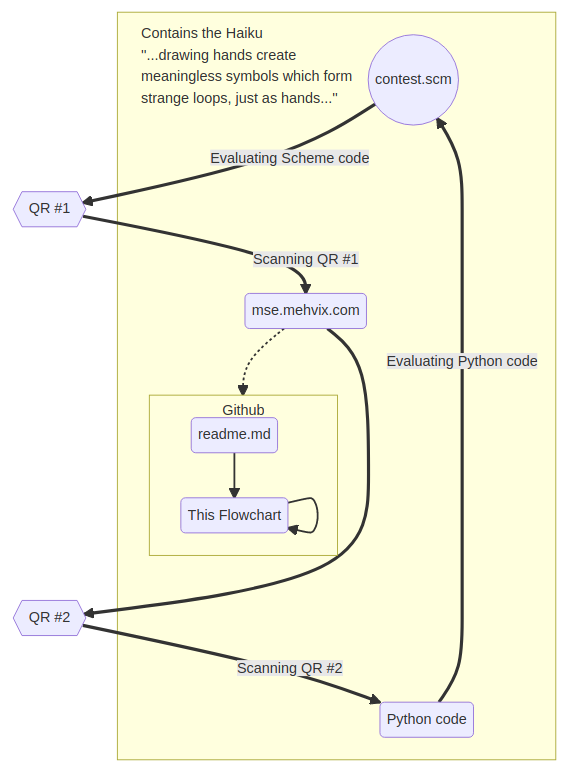
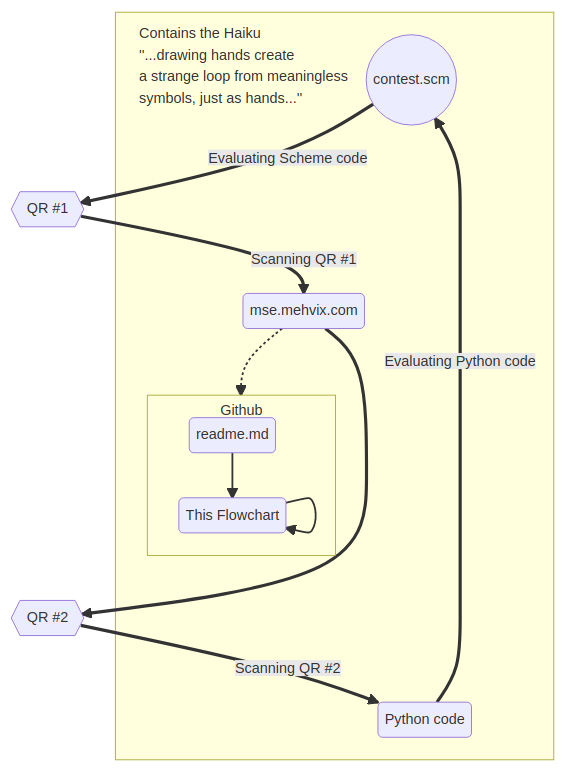
haiku 2.0

diff --git a/index.html b/index.html
@@ -39,10 +39,12 @@
                 >drawing hands</a
             >
             create<br />
-            meaningless symbols which form<br />
+            a
             <a href="https://en.wikipedia.org/wiki/Strange_loop"
-                >strange loops</a
-            >, just as hands...
+                >strange loop</a
+            >
+            from meaningless<br />
+            symbols, just as hands...
         </blockquote>
         <img src="py-qr.png" /><br />
         <a href="http://github.com/Mehvix/mse">GitHub</a><br /><br /><br />

diff --git a/img-to-scm.py b/img-to-scm.py
@@ -32,8 +32,8 @@ scheme = f"\
 ;;;\n\
 ;;; Description:\n\
 ;;;   <...drawing hands create\n\
-;;;    meaningless symbols which form\n\
-;;;    strange loops, just as hands...>\n\
+;;;    a strange loop from meaningless\n\
+;;;    symbols, just as hands...>\n\
 \n\
 (define (draw)\n\
   (ht)\n\

diff --git a/README.md b/README.md
@@ -1,29 +1,16 @@
 # MSE
 
-M Scheme EschQR<br> 
+MSE Scheme EschQR<br> 
 Scheme<br>
 EschQR<br>
 
 
 ---
 
-<!-- strange loop emerging
-from a series of symbols
-that form another -->
-
-<!-- meaningless symbols
-form a strange loop, emerging
-from a series which -->
-
-<!-- emerging from a
-set of meaningless symbols
-is a strange loop, which, -->
-
 > ...[drawing hands](https://en.wikipedia.org/wiki/Drawing_Hands) create<br>
-> meaningless symbols which form <br>
-> [strange loops](https://en.wikipedia.org/wiki/Strange_loop), just as hands...<br>
+> a [strange loop](https://en.wikipedia.org/wiki/Strange_loop) from meaningless <br>
+> symbols, just as hands...<br>
 
 ---
 
-
-![](flowchart.png)
+![flowchart](flowchart.png)
